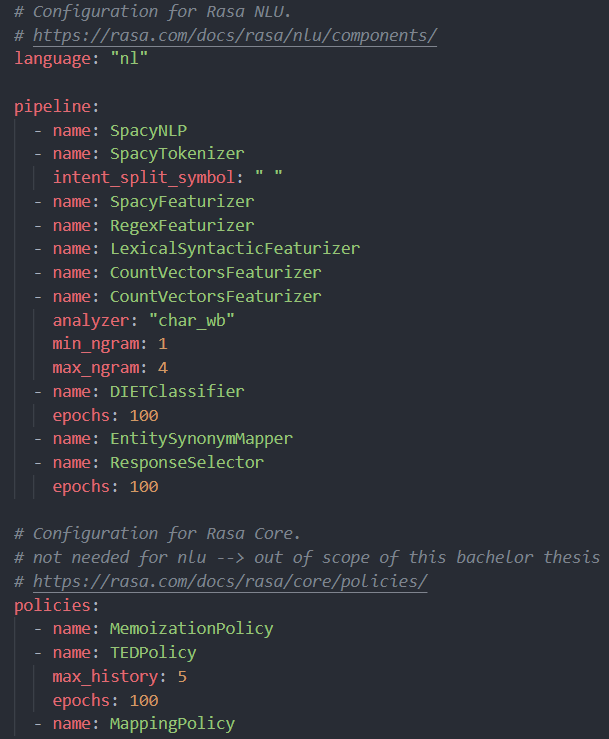
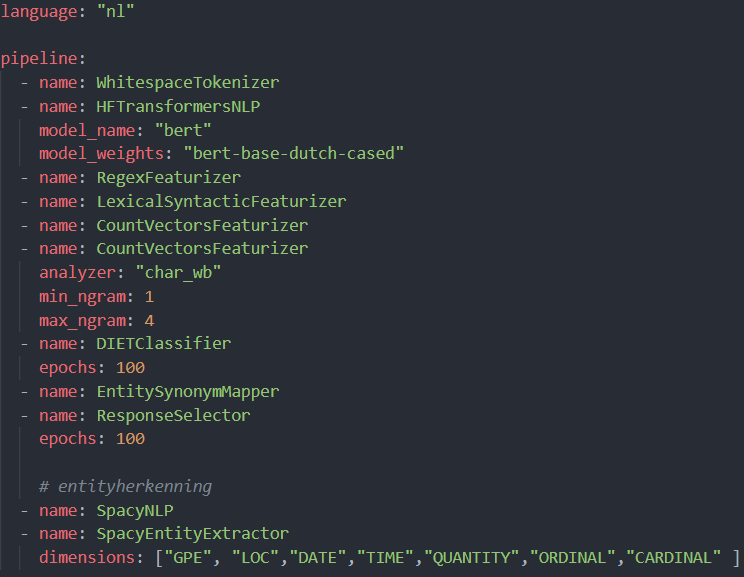
added more content to the final latex document

diff --git a/bachproef/standvanzaken.tex b/bachproef/standvanzaken.tex
@@ -187,7 +187,7 @@ LUIS is de NLU tool aangeboden door Microsoft en is ook een vaste waarde op de m
 
 Wit.ai is een open-source platform die ontwikkeld is door Facebook. Het is volledig gratis en ondersteund bijna alle talen die er bestaan. Het is een platform door en voor ontwikkelaars en doordat het open source is, is elke interactie gedeeld met de volledige community. Doordat het ontwikkeld is door Facebook, heeft het wel een beperkt aantal integraties (enkel websites, apps en Facebook Messenger) \autocite{Wit2020}.
 
-\subsection{RASA}
+\subsection{Rasa}
 \label{subsec:nlp-platformen-rasa}
 
 Het laatste platform die onderzocht wordt is eentje die nogal sterk afwijkt van de andere. Het is verschillend, omdat het ten eerste niet wordt aangeboden door een groot bedrijf zoals Google, Facebook of Microsoft, maar ook omdat het volledig open-source is. Het is ook geen platform die zoals de rest bereikt kan worden via het internet met een user interface. Dit framework moet gedownload worden en dan kan er lokaal een chatbot worden gebouwd. Indien dit platform bereikbaar moet zijn vanop het internet, dan moet de ontwikkelaar daar zelf voor instaan. Het kan wel mits wat configuratie op Google Cloud, Microsoft Azure of Amazon Web Services (AWS) gezet worden. Deze tool vereist heel wat meer technische kennis van ontwikkelaars, maar biedt wel meer mogelijkheden om een chatbot te bouwen die aangepast is aan de noden van een project. Rasa bestaat uit rasa NLU en rasa core.  Rasa NLU staat in voor het classificeren van de intents en het verstaan van berichten en rasa core is een engine om dialogen te voeren. Binnen dit onderzoek zal enkel rasa NLU gebruikt worden. Doordat rasa open-source, kan er als ontwikkelaar zelf worden gekozen welke componenten worden gebruikt. Dit zorgt er voor dat het vrijwel mogelijk is om in elke taal een chatbot met rasa te bouwen. Er zijn ook heel wat componenten beschikbaar om gebruik te maken van voorgemaakte entities en intents. Rasa wijkt sterk af van de andere platformen, maar is zeker interessant om te onderzoeken, omdat het ook vaak in voorgaande studies sterk uit de hoek kwam en omdat het heel sterk op maat geïmplementeerd kan worden \autocite{RASA2020}.
@@ -199,13 +199,13 @@ Het laatste platform die onderzocht wordt is eentje die nogal sterk afwijkt van 
     \newcolumntype{P}[1]{>{\hspace{0pt}}p{#1}}
     \begin{longtable}{| P{2.2cm} | p{2.2cm} |  p{2.2cm} | p{2.2cm} | p{2.2cm} | p{2.2cm} |}
         \hline
-        \textbf{Naam}                                                  & \textbf{Watson}                                                              & \textbf{LUIS}                           & \textbf{Rasa}                                         & \textbf{Wit.ai}                                 & \textbf{Dialogflow}                                    \\  \hline
+        \textbf{Naam}                                                  &  \textbf{Watson}                                                              & \textbf{LUIS}                           & \textbf{Rasa}                                         & \textbf{Wit.ai}                                 & \textbf{Dialogflow}                                    \\  \hline
         \textbf{Provider}                                              & IBM                                                                     & Microsoft                      & Rasa Technologies Inc.                       & Facebook                               & Google                                        \\  \hline
         \textbf{Gebruiksvriendelijkheid}                               & Hoog                                                                    & Gemiddeld                      & Laag                                         & Gemiddeld                              & Hoog                                          \\  \hline
         \textbf{Prijs initieel gebruik}                                & Gratis                                                                  & Gratis                         & Gratis                                       & Gratis                                 & Gratis                                        \\  \hline
         \textbf{Limieten gratis gebruik}                               & 10000 API calls, 25 intents en 25 entities per maand                    & 10000 API calls per maand      & Onbeperkt                                    & Onbeperkt                              & 180 API calls per minuut                     \\  \hline
         \textbf{Ondersteunde talen}                                    & 13                                                                      & 13                             & Allemaal                                     & 135                                    & 20                                            \\  \hline
-        \textbf{Systeem intents}                                       & Nee                                                                     & Ja, grote lijst                & Ja, door specifieke componenten te gebruiken & Nee, Wit.ai bestaat uit enkel entities & Ja, uitgebreide lijst van voorgebouwde agents \\  \hline
+        \textbf{Systeem intents}                                       & Nee                                                                     & Nee                & Ja, door specifieke componenten te gebruiken & Nee, Wit.ai bestaat uit enkel entities & Ja, uitgebreide lijst van voorgebouwde agents \\  \hline
         \textbf{Systeem entities}                                      & Ja, 5 in het Nederlands                                                 & Ja, 11 in het Nederlands       & Ja, door specifieke componenten te gebruiken & Ja, 26 in het Nederlands               & Ja, grote lijst voor het Nederlands           \\  \hline
         \textbf{Sentimentanalyse}                                      & Ja                                                                      & Ja                             & Ja                                           & Ja                                     & Ja                                            \\  \hline
         \textbf{Integraties met bestaande diensten}                    & 3 + alles van IBM Cloud                                                 & 11 + alles van Microsoft Azure & 9                                            & 1, Facebook Messenger                  & 18 + Alles van Google Cloud                   \\  \hline
@@ -221,9 +221,11 @@ Het laatste platform die onderzocht wordt is eentje die nogal sterk afwijkt van 
 \label{tbl:platformen}
 \end{center}
 
+In Bovenstaande tabel wordt gesproken over een default fallback intent, dat is een intent die aangeropen wordt als het model geen andere intent kan herkennen. Dit heeft als grote voordeel dat je een bericht richting de gebruiker kan sturen dat de chatbot het niet goed verstaan heeft, wat de conversatie met de gebruiker actief houdt. Dit wordt verder niet meer besproken in deze bachelorproef, omdat dit niet relevant is voor dit onderzoek, maar het is wel interessant om op te nemen in een vergelijkende tabel, omdat dit een belangrijke functionaliteit kan zijn in de zoektocht naar een ideaal platform.
+
 De platformen die hierboven besproken werden, werden ook al vaak in voorgaande studies met elkaar vergeleken. Daaruit bleken telkens andere platformen de bovenhand te nemen. Deze onderzoeken werden ook niet in het Nederlands gedaan, dus een nederlandse vergelijking anno 2020 is dan ook zeker niet overbodig.
 
-Volgens het onderzoek van \textcite{Russis2018} is de tool die IBM aanbiedt om chatbots in de cloud te bouwen veruit de beste op de markt met als dichtste achtervolgers Microsoft (LUIS) en Google (Dialogflow). Dit wordt dan weer betwist door het onderzoek van \textcite{Langen2017}, want zij besluiten dat LUIS (Microsoft) veruit het beste platform is. De eerstvolgende achtervolger is RASA. de resultaten van RASA kwamen vrij dicht in de buurt van die van LUIS. Het grote voordeel van RASA is dat het door de ontwikkelaar helemaal zelf geconfigureerd kan worden, waardoor het beter aangepast kan worden aan een specifieke use case. Het zou dus zeker kunnen dat RASA beter kon presteren dan LUIS mits iets meer configuratie op maat. Dit maakt RASA interessant om verder te onderzoeken.
+Volgens het onderzoek van \textcite{Russis2018} is de tool die IBM aanbiedt om chatbots in de cloud te bouwen veruit de beste op de markt met als dichtste achtervolgers Microsoft (LUIS) en Google (Dialogflow). Dit wordt dan weer betwist door het onderzoek van \textcite{Langen2017}, want zij besluiten dat LUIS (Microsoft) veruit het beste platform is. De eerstvolgende achtervolger is Rasa. de resultaten van Rasa kwamen vrij dicht in de buurt van die van LUIS. Het grote voordeel van Rasa is dat het door de ontwikkelaar helemaal zelf geconfigureerd kan worden, waardoor het beter aangepast kan worden aan een specifieke use case. Het zou dus zeker kunnen dat Rasa beter kon presteren dan LUIS mits iets meer configuratie op maat. Dit maakt Rasa interessant om verder te onderzoeken.
 
 Volgens het onderzoek van \textcite{Savenkov2017} Is ook IBM Watson de winnaar op het vlak van intent classificatie. Daarnaast zijn Api.ai (nu Dialogflow) en LUIS de eerstvolgende achtervolgers. De verschillen van prestaties tussen die drie zijn relatief klein.
 

diff --git a/bachproef/methodologie.tex b/bachproef/methodologie.tex
@@ -403,12 +403,12 @@ Rasa bestaat uit twee hoofdmodules, Rasa NLU en Rasa Core. De focus binnen dit o
     \caption{Het configureren van de intents en voorbeeldzinnen met entities in Rasa}
 \end{figure}
 
-Het moeilijkste deel bij het gebruik van Rasa is het vastleggen van de configuratie van rasa NLU en rasa Core. Rasa kan door de ontwikkelaar volledig op maat van een project afgesteld worden. Berichten die via Rasa binnenkomen worden verwerkt door softwarepakketten die je als ontwikkelaar zelf kan kiezen. Dat is iets die in de andere platformen achter de schermen voor ons wordt gedaan, dus daar hebben we niet altijd controle over. Binnen deze bachelorproef wordt er beperkt tot de nederlandse taal, dus moeten er componenten worden gebruikt die Nederlands ondersteunen. De configuratie vastleggen kan opnieuw via een bestand (config.yml) die bij het creëren aangemaakt werd. Bij het vastleggen van de configuratie werden de aanbevelingen vanuit de officiële documentatie gebruikt. Het voornaamste is dat er componenten worden gebruikt die overweg kunnen met de nederlandse taal. De configuratie van Rasa Core heeft eveneens tal van mogelijkheden, maar dit behoort niet tot de scope van deze bachelorproef. Over alle opties en mogelijkheden van Rasa kan een totaal nieuwe bachelorproef worden geschreven. 
+Het moeilijkste deel bij het gebruik van Rasa is het vastleggen van de configuratie van rasa NLU en rasa Core. Rasa kan door de ontwikkelaar volledig op maat van een project afgesteld worden. Berichten die via Rasa binnenkomen worden verwerkt door softwarepakketten die je als ontwikkelaar zelf kan kiezen. Dat is iets die in de andere platformen achter de schermen voor ons wordt gedaan, dus daar hebben we niet altijd controle over. Binnen deze bachelorproef wordt er beperkt tot de nederlandse taal, dus moeten er componenten worden gebruikt die Nederlands ondersteunen. De configuratie vastleggen kan opnieuw via een bestand (config.yml) die bij het creëren aangemaakt werd. Bij het vastleggen van de configuratie werden de aanbevelingen vanuit de officiële documentatie gebruikt. Het voornaamste is dat er componenten worden gebruikt die overweg kunnen met de Nederlandse taal. Voor entityherkenning werd eveneens een specifieke component gebruikt, dat is nodig om entiteiten zoals locaties, datums, tijdstippen, etc. te kunnen extraheren. Deze component werd enkel gebruikt voor experimenten waarbij entities nodig zijn.  De configuratie van Rasa Core heeft eveneens tal van mogelijkheden, maar dit behoort niet tot de scope van deze bachelorproef. Over alle opties en mogelijkheden van Rasa kan een totaal nieuwe bachelorproef worden geschreven. 
 
 \begin{figure}[H]
     \label{fig:rasa-config}
     \centering
-    \includegraphics[width=0.55\textwidth]{rasa-config}
+    \includegraphics[width=0.80\textwidth]{rasa-config}
     \caption{Configuratie van Rasa}
 \end{figure}
 
@@ -435,9 +435,9 @@ Als de training succesvol afgerond is, dan is het mogelijk om de NLU module te g
 \section{Automatisatie}
 \label{sec:automatisatie}
 
-Tot nu toe werd er telkens via een user interface rechtstreeks gewerkt op de verschillende platformen om bijvoorbeeld een model te trainen of om een model te testen. Deze manier van werken is goed, maar zal bij grote hoeveelheden data heel erg veel tijd in beslag nemen. Stel je maar voor dat er 10000 voorbeeldzinnen  en 100 intents zijn en dat dit allemaal via de user interface moet ingevoerd worden. Volgens 5-fold cross validation moeten er dan een aantal keer 8000 zinnen getraind worden en 2000 zinnen getest. Dit zou volgens de werking hierboven beschreven enorm veel tijd in beslag nemen en na een mum van tijd onbeheersbaar worden. Om dit op te lossen bieden de platformen een oplossing aan genaamd een API. API’s zijn een andere manier om te communiceren met de platformen. Het is mogelijk om vanuit een eigen geprogrammeerde applicatie te communiceren met deze API’s en eigenlijk van volledig dezelfde functionaliteiten gebruik te maken als hierboven beschreven zonder dat er rechtstreeks op de platformen moet gewerkt worden. Dat betekent dat we zelf code kunnen schrijven die het volledige proces van het trainen en het valideren van de platformen kan automatiseren door gebruik te maken van die API’s. Binnen deze bachelorproef werd verder enkel nog gebruik gemaakt van de verschillende API’s. Dit met het resultaat dat het experiment veel sneller uitgevoerd en herhaald kan worden zonder dat dit allemaal manueel via de user interface van de platformen moet gebeuren.
+Tot nu toe werd er telkens via een user interface rechtstreeks gewerkt op de verschillende platformen om bijvoorbeeld een model te trainen of om een model te testen. Deze manier van werken is goed, maar zal bij grote hoeveelheden data heel erg veel tijd in beslag nemen. Stel je maar voor dat er 10000 voorbeeldzinnen  en 100 intents zijn en dat dit allemaal via de user interface moet ingevoerd worden. Volgens 5-fold cross validation moeten er dan een aantal keer 8000 zinnen getraind worden en 2000 zinnen getest. Dit zou volgens de werking hierboven beschreven enorm veel tijd in beslag nemen en na een mum van tijd onbeheersbaar worden. Om dit op te lossen bieden de platformen een oplossing aan genaamd een API. API’s zijn een andere manier om te communiceren met de platformen. Het is mogelijk om vanuit een eigen geprogrammeerde applicatie te communiceren met deze API’s en eigenlijk van volledig dezelfde functionaliteiten gebruik te maken als hierboven beschreven zonder dat er rechtstreeks op de platformen moet gewerkt worden. Dat betekent dat we zelf code kunnen schrijven die het volledige proces van het trainen en het valideren van de platformen kan automatiseren door gebruik te maken van die API’s. De platformen bieden ook een andere oplossing voor dit probleem aan, genaamd SDK's. Dat staat voor Software Development Kit en dat is een tool die de werking met de platformen vanuit eigen geschreven code nog eenvoudiger maakt. Achterliggend zullen SDK's ook gebruik maken van de API's, maar de ontwikkelaar moet daar zelf minder voor instaan. Binnen deze bachelorproef werd verder enkel nog gebruik gemaakt van de verschillende API’s en SDK's. Dit met het resultaat dat het experiment veel sneller uitgevoerd en herhaald kan worden zonder dat dit allemaal manueel via de user interface van de platformen moet gebeuren.
 
-Alle automatisatiescrips zijn geschreven in de programmeertaal Python en maken gebruik van de API’s aangeboden door de verschillende chatbot providers. Er zijn scripts geschreven voor zowel het trainen als het testen van de verschillende platformen voor alle experimenten die uitgevoerd zijn. Voor het toepassen van Cross validation werd eveneens een script geschreven die de initiële dataset random verdeeld in 5 verschillende delen en daarmee dan de juiste train-en-test datasets mee zal vormen zoals beschreven in sectie 3.3. Daarvoor werd gebruik gemaakt van Scikit-learn, dat is een softwarepakket die verschillende functionaliteiten voor machine learning aanbiedt voor de programmeertaal Python. Scikit-learn bevat een module die cross validation zal uitvoeren \autocite{sklearn2020}. De gevormde datasets worden dan weggeschreven in bestanden die dan door de andere scripts gebruikt worden voor het trainen en valideren.
+Alle automatisatiescrips zijn geschreven in de programmeertaal Python en maken gebruik van de API’s en SDK's aangeboden door de verschillende chatbot providers. Er zijn scripts geschreven voor zowel het trainen als het testen van de verschillende platformen voor alle experimenten die uitgevoerd zijn. Voor het toepassen van Cross validation werd eveneens een script geschreven die de initiële dataset random verdeeld in 5 verschillende delen en daarmee dan de juiste train-en-test datasets mee zal vormen zoals beschreven in sectie 3.3. Daarvoor werd gebruik gemaakt van Scikit-learn, dat is een softwarepakket die verschillende functionaliteiten voor machine learning aanbiedt voor de programmeertaal Python. Scikit-learn bevat een module die cross validation zal uitvoeren \autocite{sklearn2020}. De gevormde datasets worden dan weggeschreven in bestanden die dan door de andere scripts gebruikt worden voor het trainen en valideren.
 
 \begin{figure}[H]
     \label{fig:code-kfold}

diff --git a/bachproef/samenvatting.tex b/bachproef/samenvatting.tex
@@ -2,7 +2,7 @@
 %% Samenvatting
 %%=============================================================================
 
-% TODO: De "abstract" of samenvatting is een kernachtige (~ 1 blz. voor een
+%  De "abstract" of samenvatting is een kernachtige (~ 1 blz. voor een
 % thesis) synthese van het document.
 %
 % Deze aspecten moeten zeker aan bod komen:
@@ -19,7 +19,7 @@
 
 %%---------- Nederlandse samenvatting -----------------------------------------
 %
-% TODO: Als je je bachelorproef in het Engels schrijft, moet je eerst een
+%  Als je je bachelorproef in het Engels schrijft, moet je eerst een
 % Nederlandse samenvatting invoegen. Haal daarvoor onderstaande code uit
 % commentaar.
 % Wie zijn bachelorproef in het Nederlands schrijft, kan dit negeren, de inhoud
@@ -37,4 +37,39 @@
 
 \chapter*{\IfLanguageName{dutch}{Samenvatting}{Abstract}}
 
-\lipsum[1-4]
+Chatbots zijn tegenwoordig niet meer weg te denken uit onze maatschappij. We beseffen het misschien niet altijd, maar we hebben meer interactie met een chatbot dan dat we initieel zouden verwachten. Denk maar aan de klantenservice van bedrijven bijvoorbeeld. Het gebeurt niet zo vaak meer dat ons eerste contact direct met een menselijke medewerker is. Meestal zit er een geautomatiseerde gesprekspartner te wachten om de klant verder te helpen bij problemen en vragen. Bedrijven gaan tegenwoordig vaak hun eigen chatbots gaan bouwen, maar hoe moet dat juist ? De ontwikkelingen binnen de wereld van artificiële intelligentie zijn de laatste jaren enorm sterk toegenomen en bieden daarom bedrijven de mogelijkheid om daar op in te spelen en daar zelf mee te gaan werken. Het implementeren van een chatbot vanaf nul is een heel erg complexe zaak en daar hebben verschillende bedrijven op ingespeeld door platformen te bouwen die dat proces vergemakkelijken. Bedrijven waarin de kennis om dat vanaf nul op te zetten niet aanwezig is of waarin de focus op andere zaken ligt kunnen op deze manier toch chatbots gaan bouwen en gebruiken. Er zijn tal van bedrijven die hun eigen chatbotplatformen hebben ontwikkeld waarmee eenvoudig een chatbot ontwikkeld kan worden. Bedrijven zoals Google, Facebook, Microsoft, IBM, Amazon, etc. hebben allemaal zo’n platform gebouwd, maar welk van deze platformen is de beste oplossing ?
+
+Binnen deze bachelorproef is een uitgebreid onderzoek gevoerd naar de verschillende gratis platformen die perfect overweg kunnen met de Nederlandse taal en werden de meest interessante verder uitgediept. Daarbij wordt er stilgestaan bij de verschillende functionaliteiten, voor-en nadelen, integratiemogelijkheden met bijvoorbeeld Slack of Facebook Messenger, werking en prestaties. De focus binnen deze bachelorproef ligt op het vinden van het platform die het beste kan verstaan wat de gebruiker juist bedoeld en ook belangrijke informatie zoals datums, locaties, tijdstippen, etc. kan extraheren. Daarbij wordt ook rekening gehouden met spellingsfouten. De platformen zijn door middel van objectieve beoordelingstechnieken en verschillende experimenten uitbundig getest. 
+
+Het resultaat is dat het platform van Facebook (Wit.ai) algemeen de beste resultaten kan voorleggen. Zowel bij het correct verstaan van berichten als het afleiden van belangrijke informatie scoort Wit.ai het sterkst. Het platform heeft wel moeite met spellingsfouten en scoort daarbij niet goed in vergelijking met zijn concurrenten. Ook de ingebouwde integratiemogelijkheden van andere platformen zijn geavanceerder.
+
+Deze bachelorproef biedt heel wat mogelijkheden tot verder onderzoek doordat er beperkt werd tot de Nederlandse taal en dat er geen betaalde platformen onderzocht werden. De dataset die werd gebruikt is ook fictief en te klein om volledig representatief te zijn. Daar zou verder onderzoek met een grote representatieve dataset een oplossing voor bieden. Dit onderzoek biedt alvast een goed startpunt.
+
+
+
+
+
+
+
+
+
+
+
+
+
+
+
+
+
+
+
+
+
+
+
+
+
+
+
+
+

diff --git a/bachproef/conclusie.tex b/bachproef/conclusie.tex
@@ -5,7 +5,7 @@
 \chapter{Conclusie}
 \label{ch:conclusie}
 
-% TODO: Trek een duidelijke conclusie, in de vorm van een antwoord op de
+% Trek een duidelijke conclusie, in de vorm van een antwoord op de
 % onderzoeksvra(a)g(en). Wat was jouw bijdrage aan het onderzoeksdomein en
 % hoe biedt dit meerwaarde aan het vakgebied/doelgroep? 
 % Reflecteer kritisch over het resultaat. In Engelse teksten wordt deze sectie
@@ -14,5 +14,16 @@
 % Heeft het onderzoek geleid tot nieuwe vragen die uitnodigen tot verder 
 %onderzoek?
 
-\lipsum[76-80]
+Uit dit onderzoek kan geconcludeerd worden dat de resultaten van de verschillende platformen voor intentherkenning heel erg dicht bij elkaar liggen. Dat zorgt er voor dat het op een aantal procent aankomt om te zeggen wie de beste is. Wit.ai kan de beste resultaten voorleggen met een verschil van minder dan 1 procent op IBM Watson. Wit.ai scoort wel een pak slechter als er veel spellingsfouten in de voorbeeldzinnen staan. Daar zien we dat IBM Watson de duidelijke winnaar is en dat Wit.ai bijna slechtst scoort.
+
+Op het vlak van entityherkenning is het wel heel erg duidelijk, Wit.ai steekt er bovenuit en niemand komt dicht in de buurt. Op zich presteert Dialogflow ook goed, maar niet goed genoeg om waardige concurrentie te zijn. Bij zowel het gebruik van spellingsfouten als zonder is Wit.ai duidelijk de beste.
+
+Wit.ai is op zich vrij gemakkelijk te gebruiken en heeft als grote voordelen dat het volledig gratis te gebruiken is en dat het bijna alle talen ondersteund. De documentatie voor zowel de grafische interface als de API is ook goed uitgewerkt. De API op zich werkt wel niet optimaal. Het is een aantal keer voorgevallen dat niet alle data die werd verstuurd, ook effectief in het platform terecht kwam, alhoewel dat de API wel een bericht terug gaf dat alles succesvol was toegevoegd. Het duurde soms ook uren tot de applicatie getraind was. Dat valt in dit onderzoek nog mee, maar zal waarschijnlijk problemen veroorzaken bij applicaties die een stuk groter zijn en veel meer data bevatten.
+
+De ingebouwde integratiemogelijkheden van Wit.ai zijn ook heel erg beperkt, doordat het deel uitmaakt van Facebook. Daarin steekt Dialogflow er bovenuit. Het is natuurlijk wel altijd mogelijk om zelf een applicatie op te zetten door gebruik te maken van de API’s en SDK’s.
+
+Alhoewel dat er objectieve beoordelingstechnieken gebruikt zijn, geeft dit onderzoek enkel een indicatie van welk platform het beste presteert. Er is een fictieve dataset opgesteld waarin een aantal voorbeeldzinnen werden toegevoegd die gebruikt werden. Deze dataset is veel te klein om een sluitend antwoord te formuleren over welk platform de beste is. Een representatieve dataset opstellen is praktisch niet mogelijk doordat die te groot zijn. Er is ook beperkt tot de (grotendeels) gratis platformen, wat dus niet kan uitsluiten dat er bepaalde betalende platformen beter presteren. Dit onderzoek is ook volledig op Nederlandse data uitgevoerd, maar sommige platformen staan daarbij nog niet zo ver als waar ze staan bij de Engelse taal.
+
+Dit onderzoek biedt een mooi startpunt voor verder onderzoek, waarin er gebruik kan gemaakt worden van representatieve datasets om te beoordelen of daar effectief andere conclusies uit getrokken kunnen worden dan in dit onderzoek. Het is ook interessant om te onderzoeken of dat er grote verschillen zijn in resultaten als er Engelse data gebruikt wordt. Daarnaast is het ook een mooi startpunt om dit onderzoek verder uit te breiden met betalende platformen om de verschillen vast te leggen.
+
 

diff --git a/voorstel/voorstel-inhoud.tex b/voorstel/voorstel-inhoud.tex
@@ -32,7 +32,7 @@ We kunnen concluderen dat chatbots een duidelijke meerwaarde hebben binnen onze 
 \label{sec:methodologie}
 
 Bij het uitwerken van deze bachelorproef kan het volledige proces worden opgedeeld in 5 fases.
-In de eerste fase zal er algemene uitleg rond chatbots plaatsvinden en zullen belangrijke begrippen toegelicht worden. Er zal ook stilgestaan worden bij de uitdagingen en tekortkomingen van chatbots op dit moment. Tijdens de tweede fase zal er een vergelijkende studie worden uitgevoerd, waarbij er een aantal NLP-platformen zullen worden vergeleken met elkaar. Ze zullen worden vergeleken op vaste criteria zoals prijs, integratiemogelijkheden, complexiteit, ontwikkeltijd, ondersteuning voor verschillende (programmeer) talen, pre-built entities/intents, spraakherkenning, ... De belangrijkste voor-en nadelen zullen ook uitvoerig besproken worden. Er zal hier niet alleen naar de grote marktspelers worden gekeken, maar ook naar kleinere platformen die minder in de belangstelling staan zoals Recast.ai, ChatFuel, RASA, AgentBot, Botsify, Reply.ai, … Tijdens de derde fase zullen de drie meest interessante platformen uit deze lijst geselecteerd worden en zal er een testscenario worden opgesteld waarbij er een aantal factoren van deze 3 gekozen tools uitvoerig getest en geëvalueerd zullen worden. Voor het testscenario zal er een dataset voorzien worden met testdata waarmee elk gekozen platform zal getraind worden. Daarna zullen de chatbots beoordeeld worden op de verschillende criteria door middel van conversaties waarbij er zal worden gekeken naar de volgende criteria:\bigskip
+In de eerste fase zal er algemene uitleg rond chatbots plaatsvinden en zullen belangrijke begrippen toegelicht worden. Er zal ook stilgestaan worden bij de uitdagingen en tekortkomingen van chatbots op dit moment. Tijdens de tweede fase zal er een vergelijkende studie worden uitgevoerd, waarbij er een aantal NLP-platformen zullen worden vergeleken met elkaar. Ze zullen worden vergeleken op vaste criteria zoals prijs, integratiemogelijkheden, complexiteit, ontwikkeltijd, ondersteuning voor verschillende (programmeer) talen, pre-built entities/intents, spraakherkenning, ... De belangrijkste voor-en nadelen zullen ook uitvoerig besproken worden. Er zal hier niet alleen naar de grote marktspelers worden gekeken, maar ook naar kleinere platformen die minder in de belangstelling staan zoals Recast.ai, ChatFuel, Rasa, AgentBot, Botsify, Reply.ai, … Tijdens de derde fase zullen de drie meest interessante platformen uit deze lijst geselecteerd worden en zal er een testscenario worden opgesteld waarbij er een aantal factoren van deze 3 gekozen tools uitvoerig getest en geëvalueerd zullen worden. Voor het testscenario zal er een dataset voorzien worden met testdata waarmee elk gekozen platform zal getraind worden. Daarna zullen de chatbots beoordeeld worden op de verschillende criteria door middel van conversaties waarbij er zal worden gekeken naar de volgende criteria:\bigskip
 
 \begin{itemize}
     \item Hoe reageert de chatbot op een normale eenvoudige conversatie met weinig moeilijke zinnen ?

diff --git a/bachproef/resultaten.tex b/bachproef/resultaten.tex
@@ -74,7 +74,7 @@ Op het eerste zicht valt het op dat er geen platform veel sterker presteert dan 
 
 \section{Intent-en-entityherkenning}
 
-Bij het tweede experiment werd gekeken naar hoe goed de platformen entities kunnen afleiden uit de input en hoe het zit met intentherkenning bij het gebruik van entities. Daarbij werd in tegenstelling tot het eerste experiment maar 1 iteratie uitgevoerd, omdat het eerste experiment het hoofdexperiment is van deze bachelorproef en daar dus extra aandacht aan besteed werd. 5 fold cross validation uitvoeren neemt erg veel tijd in beslag, daarom dat er een keuze moest gemaakt worden. Voor dit experiment werd de dataset door middel van een algoritme verdeeld in 2 delen, een dataset om te trainen (80\% van de data) en een dataset om te valideren (20\% van de data). Alle platformen werden getraind en gevalideerd op een manier dat er nu wel entities worden gebruikt. Uit de resultaten valt het meteen op dat de f-scores gemiddeld een pak hoger liggen dan bij het eerste experiment. Dit moet met een korrel zout genomen worden, doordat er maar 1 iteratie is en omdat er nieuwe train-en-test datasets gegenereerd zijn en dus door toeval ‘makkelijkere’ testzinnen kunnen gebruikt zijn. Bij deze resultaten Is het duidelijk dat IBM watson de betere resultaten kan voorleggen en dat het in tegenstelling tot het vorige experiment Wit.ai is die het slechtste scoort.
+Bij het tweede experiment werd gekeken naar hoe goed de platformen entities kunnen afleiden uit de input en hoe het zit met intentherkenning bij het gebruik van entities. Daarbij werd in tegenstelling tot het eerste experiment maar 1 iteratie uitgevoerd, omdat het eerste experiment het hoofdexperiment is van deze bachelorproef en daar dus extra aandacht aan besteed werd. 5 fold cross validation uitvoeren neemt erg veel tijd in beslag, daarom dat er een keuze moest gemaakt worden. Voor dit experiment werd de dataset door middel van een algoritme verdeeld in 2 delen, een dataset om te trainen (80\% van de data) en een dataset om te valideren (20\% van de data). Alle platformen werden getraind en gevalideerd op een manier dat er nu wel entities worden gebruikt. Uit de resultaten valt het meteen op dat de f-scores gemiddeld een pak hoger liggen dan bij het eerste experiment. Dit moet met een korrel zout genomen worden, doordat er maar 1 iteratie is en omdat er nieuwe train-en-test datasets gegenereerd zijn en dus door toeval ‘makkelijkere’ testzinnen kunnen gebruikt zijn. Bij deze resultaten is het duidelijk dat IBM watson de betere resultaten kan voorleggen en dat het in tegenstelling tot het vorige experiment Wit.ai is die het slechtste scoort.
 
 
 \begin{center}

diff --git a/bachproef/voorwoord.tex b/bachproef/voorwoord.tex
@@ -11,3 +11,10 @@
 %% waarom jij het onderwerp wil bespreken.
 %% Vergeet ook niet te bedanken wie je geholpen/gesteund/... heeft
 
+Ik wil tijdens mijn professionele carrière met zoveel mogelijk technologieën in aanraking komen, omdat ik daar nieuwsgierig in ben, maar ook om zeker te zijn waar mijn grootste interesse ligt. Tijdens mijn opleiding toegepaste informatica aan Hogeschool Gent heb ik nauwelijks inzicht gekregen in de wereld van artificiële intelligentie en machine learning en dat vond ik enorm jammer. Er was een opleidingsonderdeel in het derde jaar rond artificiële intelligentie, maar dat heb ik niet gekregen doordat ik dat semester heb gekozen voor een periode in het buitenland. Tijdens deze periode heb ik dat vak op eigen initiatief wat bekeken en daar ontstond het idee om mijn bachelorproef te doen rond artificiële intelligentie, of toch een sub domein daarvan. De keuze om iets rond chatbots te doen kwam vrij snel, omdat ik altijd wel in geïnteresseerd was in hoe dat juist functioneerde en hoe het toch kon dat een machine menselijke taal kan verstaan en zelf kan genereren. Het leek me heel tof en leerrijk om dat zelf te kunnen bouwen. De bachelorproef leek me een ideaal moment om daar onderzoek rond te doen en mijn kennis daarin te verbeteren.
+
+Ik zou graag mijn promotor Liesbeth Lewyllie willen bedanken voor haar begeleiding en steun. Ze heeft me inhoudelijk en tijdens de uitwerking van dit onderzoek continu begeleid en telkens de nodige feedback voorzien. Bij vragen en onduidelijkheden rond eender wat kon ik bij haar terecht en heeft ze me steeds goed verder geholpen.
+
+Daarnaast wil ik ook mijn co-promotor Kenny Helsens bedanken om me vanaf het begin het ondersteunen in mijn idee. We hebben samen de scope van dit onderzoek vastgelegd en hij heeft me de vrijheid gegeven om een bachelorproef te maken waarin ik zelf veel beslissingen moest maken. Zijn persoonlijke kennis en ervaring met het bedrijf In The Pocket hebben een duidelijke bijdrage in het eindresultaat.
+
+Als laatste wil ik mijn vriendin Ime Van Daele bedanken om mijn bachelorproef meerdere malen te lezen en te verbeteren op grammaticale fouten. Alhoewel ze niet thuis is binnen dit onderzoekdomein, heeft ze dit werk met de nodige kritieke blik bekeken en veel nuttige feedback gegeven, wat zeker een positieve impact heeft op dit werk.

diff --git a/bachproef/inleiding.tex b/bachproef/inleiding.tex
@@ -5,17 +5,17 @@
 \chapter{\IfLanguageName{dutch}{Inleiding}{Introduction}}
 \label{ch:inleiding}
 
-De inleiding moet de lezer net genoeg informatie verschaffen om het onderwerp te begrijpen en in te zien waarom de onderzoeksvraag de moeite waard is om te onderzoeken. In de inleiding ga je literatuurverwijzingen beperken, zodat de tekst vlot leesbaar blijft. Je kan de inleiding verder onderverdelen in secties als dit de tekst verduidelijkt. Zaken die aan bod kunnen komen in de inleiding~:
-
-\begin{itemize}
-  \item context, achtergrond
-  \item afbakenen van het onderwerp
-  \item verantwoording van het onderwerp, methodologie
-  \item probleemstelling
-  \item onderzoeksdoelstelling
-  \item onderzoeksvraag
-  \item \ldots
-\end{itemize}
+%De inleiding moet de lezer net genoeg informatie verschaffen om het onderwerp te begrijpen en in te zien waarom de onderzoeksvraag de moeite waard is om te onderzoeken. In de inleiding ga je literatuurverwijzingen beperken, zodat de tekst vlot leesbaar blijft. Je kan de inleiding verder onderverdelen in secties als dit de tekst verduidelijkt. Zaken die aan bod kunnen komen in de inleiding~:
+%
+%\begin{itemize}
+%  \item context, achtergrond
+%  \item afbakenen van het onderwerp
+%  \item verantwoording van het onderwerp, methodologie
+%  \item probleemstelling
+%  \item onderzoeksdoelstelling
+%  \item onderzoeksvraag
+%  \item \ldots
+%\end{itemize}
 
 \section{Begrippen}
 \label{sec:begrippen}

diff --git a/bachproef/bachproef-tin.tex b/bachproef/bachproef-tin.tex
@@ -10,7 +10,6 @@
 \usepackage{float}
 \usepackage{array}
 \usepackage{longtable}
-\usepackage{colortbl}
 
 %%---------- Documenteigenschappen ---------------------------------------------
 
